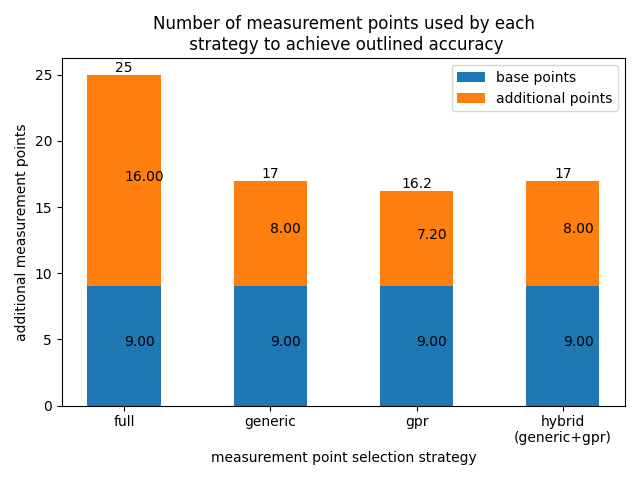
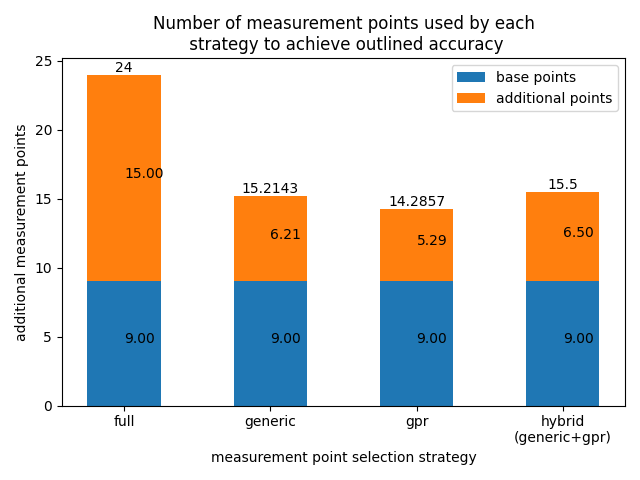
eval point not used for modeling

diff --git a/case_study.py b/case_study.py
@@ -42,7 +42,6 @@ from sklearn.gaussian_process.kernels import WhiteKernel
 import warnings
 from sklearn.exceptions import ConvergenceWarning
 
-#TODO: parallelize for loop that iterates through callpaths if possible, cause FASTEST takes really long with filer=0...
 
 def percentage_error(true_value, measured_value):
     error = abs(true_value - measured_value)
@@ -68,11 +67,12 @@ def calculate_selected_point_cost(selected_points, experiment, callpath_id, metr
         measurement_temp = experiment.get_measurement(coordinate_id, callpath_id, metric_id)
         #print("measurement_temp:",measurement_temp)
         coordinate_cost = 0
-        for k in range(len(measurement_temp.values)):
-            runtime = measurement_temp.values[k]
-            nr_processes = coordinate.as_tuple()[0]
-            core_hours = runtime * nr_processes
-            coordinate_cost += core_hours
+        if measurement_temp != None:
+            for k in range(len(measurement_temp.values)):
+                runtime = measurement_temp.values[k]
+                nr_processes = coordinate.as_tuple()[0]
+                core_hours = runtime * nr_processes
+                coordinate_cost += core_hours
         selected_cost += coordinate_cost
     return selected_cost
 
@@ -363,6 +363,25 @@ def main():
                 logging.error("The given file path is not valid.")
                 sys.exit(1)
 
+        # make sure the evaluation point is not used for modeling
+        measurements_backup = copy.deepcopy(experiment.measurements)
+        measurement_evaluation = copy.deepcopy(experiment.measurements)
+        #coordinate_evaluation = copy.deepcopy(experiment.coordinates)
+        experiment.measurements = None
+        for o in range(len(experiment.metrics)):
+            for k in range(len(experiment.callpaths)):
+                for i in range(len(experiment.coordinates)):
+                    cord = measurements_backup[experiment.callpaths[k], experiment.metrics[o]][i].coordinate
+                    if cord == Coordinate(float(eval_point[0]),float(eval_point[1])):
+                        measurements_backup[experiment.callpaths[k], experiment.metrics[o]].pop(i)
+        experiment.measurements = measurements_backup
+        coordinate_evaluation = []
+        for i in range(len(experiment.coordinates)):
+            coordinate_evaluation.append(experiment.coordinates[i])
+        for i in range(len(experiment.coordinates)):
+            if experiment.coordinates[i] == Coordinate(float(eval_point[0]),float(eval_point[1])):
+                experiment.coordinates.pop(i)
+
         # initialize model generator
         model_generator = ModelGenerator(
             experiment, modeler=args.modeler, use_median=use_median)
@@ -505,12 +524,13 @@ def main():
                             coordinate_id = k
                     measurement_temp = experiment.get_measurement(coordinate_id, callpath_id, metric_id)
                     coordinate_cost = 0
-                    for k in range(len(measurement_temp.values)):
-                        runtime = measurement_temp.values[k]
-                        core_hours = runtime * nr_processes
-                        cost[experiment.coordinates[i]].append(core_hours)
-                        coordinate_cost += core_hours
-                        overall_runtime += runtime
+                    if measurement_temp != None:
+                        for k in range(len(measurement_temp.values)):
+                            runtime = measurement_temp.values[k]
+                            core_hours = runtime * nr_processes
+                            cost[experiment.coordinates[i]].append(core_hours)
+                            coordinate_cost += core_hours
+                            overall_runtime += runtime
                     total_cost += coordinate_cost
 
             else:
@@ -743,18 +763,18 @@ def main():
                 prediction_generic = eval(model_generic)
                 #print("prediction_generic:",prediction_generic)
 
-                cord_id = -1
+                # get the actual measured value
+                eval_measurement = None
                 #TODO: only works for 2 parameters
-                for o in range(len(experiment.coordinates)):
-                    parameter_values = experiment.coordinates[o].as_tuple()
+                for o in range(len(coordinate_evaluation)):
+                    parameter_values = coordinate_evaluation[o].as_tuple()
                     #print("parameter_values:",parameter_values)
                     if parameter_values[0] == float(eval_point[0]) and parameter_values[1] == float(eval_point[1]):
-                        cord_id = o
+                        eval_measurement = measurement_evaluation[experiment.callpaths[callpath_id], experiment.metrics[metric_id]][o]
                         break
-                #print("DEBUG:",experiment.coordinates[cord_id], "eval point:",eval_point)
-                measurement_temp = experiment.get_measurement(cord_id, callpath_id, metric_id)
-                #print("measurement_temp:",measurement_temp)
-                actual = measurement_temp.mean
+
+                #print("eval_measurement:",eval_measurement)
+                actual = eval_measurement.mean
                 #print("actual:",actual)
 
                 # get the percentage error for the full matrix of points
@@ -839,7 +859,7 @@ def main():
                                 callpath, 
                                 metric,
                                 normalization_factors,
-                                experiment.parameters)
+                                experiment.parameters, eval_point)
                 
                 # add additional measurement points until break criteria is met
                 add_points_gpr = 0
@@ -959,18 +979,18 @@ def main():
                 prediction_gpr = eval(model_generic)
                 #print("prediction_gpr:",prediction_gpr)
 
-                cord_id = -1
+                # get the actual measured value
+                eval_measurement = None
                 #TODO: only works for 2 parameters
-                for o in range(len(experiment.coordinates)):
-                    parameter_values = experiment.coordinates[o].as_tuple()
+                for o in range(len(coordinate_evaluation)):
+                    parameter_values = coordinate_evaluation[o].as_tuple()
                     #print("parameter_values:",parameter_values)
                     if parameter_values[0] == float(eval_point[0]) and parameter_values[1] == float(eval_point[1]):
-                        cord_id = o
+                        eval_measurement = measurement_evaluation[experiment.callpaths[callpath_id], experiment.metrics[metric_id]][o]
                         break
-                #print("DEBUG:",experiment.coordinates[cord_id], "eval point:",eval_point)
-                measurement_temp = experiment.get_measurement(cord_id, callpath_id, metric_id)
-                #print("measurement_temp:",measurement_temp)
-                actual = measurement_temp.mean
+
+                #print("eval_measurement:",eval_measurement)
+                actual = eval_measurement.mean
                 #print("actual:",actual)
 
                 # get the percentage error for the full matrix of points
@@ -1027,7 +1047,7 @@ def main():
                                 callpath, 
                                 metric,
                                 normalization_factors,
-                                experiment.parameters)
+                                experiment.parameters, eval_point)
                 
                 # add additional measurement points until break criteria is met
                 add_points_hybrid = 0
@@ -1172,18 +1192,18 @@ def main():
                 prediction_hybrid = eval(model_generic)
                 #print("prediction_hybrid:",prediction_hybrid)
 
-                cord_id = -1
+                # get the actual measured value
+                eval_measurement = None
                 #TODO: only works for 2 parameters
-                for o in range(len(experiment.coordinates)):
-                    parameter_values = experiment.coordinates[o].as_tuple()
+                for o in range(len(coordinate_evaluation)):
+                    parameter_values = coordinate_evaluation[o].as_tuple()
                     #print("parameter_values:",parameter_values)
                     if parameter_values[0] == float(eval_point[0]) and parameter_values[1] == float(eval_point[1]):
-                        cord_id = o
+                        eval_measurement = measurement_evaluation[experiment.callpaths[callpath_id], experiment.metrics[metric_id]][o]
                         break
-                #print("DEBUG:",experiment.coordinates[cord_id], "eval point:",eval_point)
-                measurement_temp = experiment.get_measurement(cord_id, callpath_id, metric_id)
-                #print("measurement_temp:",measurement_temp)
-                actual = measurement_temp.mean
+
+                #print("eval_measurement:",eval_measurement)
+                actual = eval_measurement.mean
                 #print("actual:",actual)
 
                 # get the percentage error for the full matrix of points

diff --git a/temp.py b/temp.py
@@ -1,4 +1,4 @@
-
+from extrap.entities.coordinate import Coordinate
 
 def add_measurements_to_gpr(gaussian_process, 
                             selected_coordinates, 
@@ -6,7 +6,7 @@ def add_measurements_to_gpr(gaussian_process,
                             callpath, 
                             metric,
                             normalization_factors,
-                            parameters):
+                            parameters, eval_point):
 
     X = []
     Y = []
@@ -15,28 +15,31 @@ def add_measurements_to_gpr(gaussian_process,
         
         x = []
 
-        parameter_values = coordinate.as_tuple()
+        #TODO: only works for 2 parameters
+        if coordinate != Coordinate(float(eval_point[0]), float(eval_point[1])):
 
-        for j in range(len(parameter_values)):
+            parameter_values = coordinate.as_tuple()
 
-            temp = 0
+            for j in range(len(parameter_values)):
 
-            if len(normalization_factors) != 0:
-                temp = parameter_values[j] * normalization_factors[parameters[j]]
+                temp = 0
 
-            else:
-                temp = parameter_values[j]
-                while temp < 1:
-                    temp = temp * 10
-                    
-            x.append(temp)
+                if len(normalization_factors) != 0:
+                    temp = parameter_values[j] * normalization_factors[parameters[j]]
 
-        for measurement in measurements[(callpath, metric)]:
-            if measurement.coordinate == coordinate:
-                Y.append(measurement.mean)
-                break
-        
-        X.append(x)
+                else:
+                    temp = parameter_values[j]
+                    while temp < 1:
+                        temp = temp * 10
+                        
+                x.append(temp)
+
+            for measurement in measurements[(callpath, metric)]:
+                if measurement.coordinate == coordinate:
+                    Y.append(measurement.mean)
+                    break
+            
+            X.append(x)
 
     gaussian_process.fit(X, Y)
 

diff --git a/README.md b/README.md
@@ -4,11 +4,13 @@ Evaluation code for the GPR journal paper. Contains the code to do a synthetic a
 
 ## Run the evaluation tool for the case studies:
 
-FASTEST: `.\case_study.py --budget 20 --cube D:\fastest\ --processes 0 --parameters "p","size" --eval_point "512","65536" --filter 1 --plot True --normalization True`
+FASTEST: `python .\case_study.py --budget 20 --cube D:\fastest\ --processes 0 --parameters "p","size" --eval_point "512","65536" --filter 1 --plot True --normalization True`
 
 Relearn: `python .\case_study.py --text .\relearn\relearn_data.txt --processes 0 --parameters "p","n" --eval_point "512","9000" --filter 1 --budget 30 --plot True --normalization True`
 
 Kripke: ``
+
+MiniFE: `python .\case_study.py --cube E:\minife\ --processes 0 --parameters "p","n" --eval_point "2048","100" --filter 1 --plot True --budget 20  --normalization True`
 
 
 
